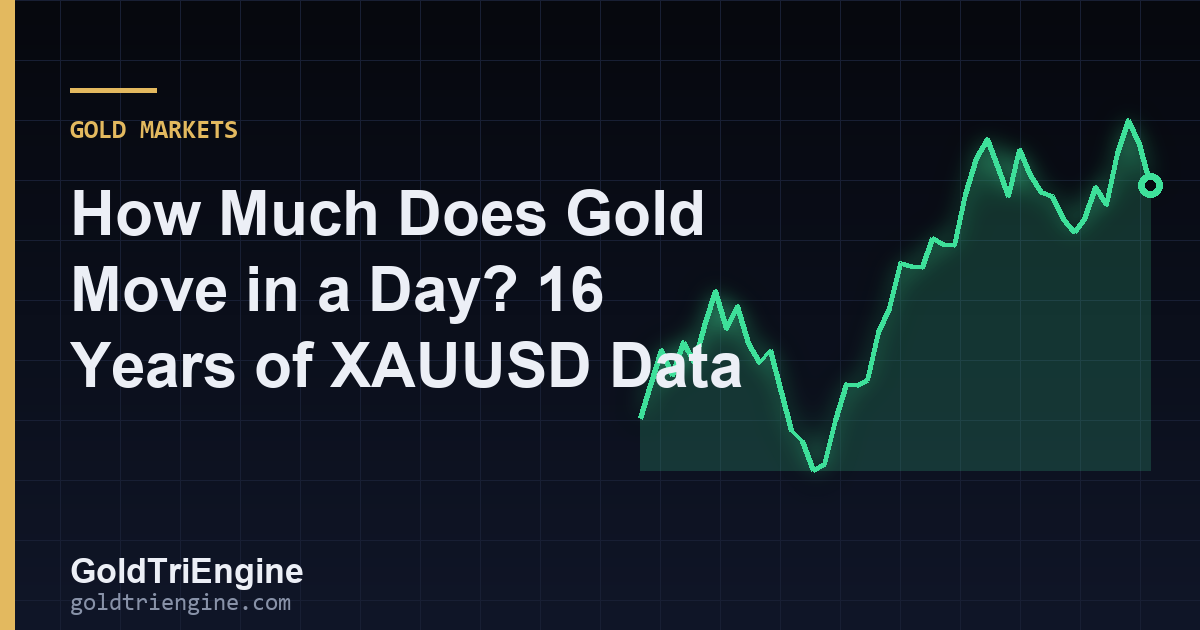
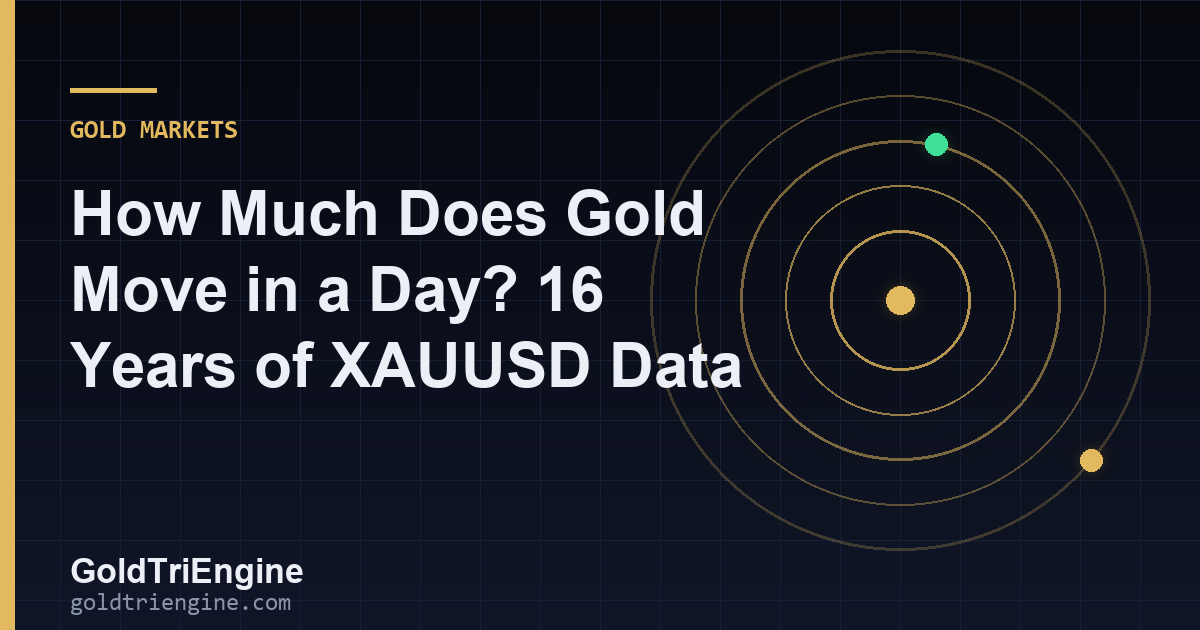
Blog: 3 posts published

diff --git a/blog/index.html b/blog/index.html
@@ -30,7 +30,7 @@
 <link rel="stylesheet" href="/style.css?v=20261021app5">
 <link rel="stylesheet" href="/wow.css?v=20261030pw11">
 <link rel="stylesheet" href="/theme.css?v=20261021app5">
-<link rel="stylesheet" href="/blog.css?v=20261031bl1">
+<link rel="stylesheet" href="/blog.css?v=20261031bl2">
 <script src="/theme.js?v=20261021app5"></script>
 <link rel="manifest" href="/manifest.webmanifest">
 <link rel="apple-touch-icon" href="/icon-180.png">
@@ -57,7 +57,7 @@
   </div>
 </header>
 <main id="main">
-<div class="bl-wrap"><header class="bl-head"><nav class="bl-crumbs" aria-label="Breadcrumb"><a href="/">Home</a> <span>/</span> <span>Blog</span></nav><span class="bl-chip"><i></i>Blog &amp; Academy</span><h1>Gold trading, explained <em>with our own data.</em></h1><p class="bl-answer">Daily gold outlooks with honest odds, lessons on news, risk, psychology and AI trading, and real results from a live account. Every number is computed by our own software.</p><div class="bl-cats"><a class="bl-chip" href="/blog/category/outlook/"><i></i>Market Outlook</a><a class="bl-chip" href="/blog/category/gold-markets/"><i></i>Gold Markets</a></div></header><a class="bl-feature" href="/blog/outlook-scorecard/"><div class="tx"><span class="bl-chip gold"><i></i>Latest · Market Outlook</span><h2>Gold Outlook Scorecard: Every Forecast, Scored in Public</h2><p>Every gold forecast we make, saved before the day and scored after it, with the back-test, calibration charts and the misses included.</p><div class="bl-meta"><span>2 min read</span></div></div><div class="vis"></div></a><div class="bl-cards"><a class="bl-card" href="/blog/how-our-gold-outlook-works/"><span class="bl-chip"><i></i>Market Outlook</span><h3>How Our Gold Outlook Works: The Method, the Maths and Its Limits</h3><p>How we turn 16 years of gold prices into daily odds, ranges and level probabilities, what we test, what the back-test found and what the method cannot do.</p><div class="bl-meta"><span>30 Oct 2026</span><span>3 min read</span></div></a><a class="bl-card" href="/blog/how-much-does-gold-move-in-a-day/"><span class="bl-chip"><i></i>Gold Markets</span><h3>How Much Does Gold Move in a Day? 16 Years of XAUUSD Data</h3><p>A typical gold day moves about half a percent, but one day in four moves over 1%. See 16 years of daily XAUUSD volatility, the biggest days and what it means for your stop loss.</p><div class="bl-meta"><span>30 Oct 2026</span><span>4 min read</span></div></a></div></div>
+<div class="bl-wrap"><header class="bl-head"><nav class="bl-crumbs" aria-label="Breadcrumb"><a href="/">Home</a> <span>/</span> <span>Blog</span></nav><span class="bl-chip"><i></i>Blog &amp; Academy</span><h1>Gold trading, explained <em>with our own data.</em></h1><p class="bl-answer">Daily gold outlooks with honest odds, lessons on news, risk, psychology and AI trading, and real results from a live account. Every number is computed by our own software.</p><div class="bl-cats"><a class="bl-chip" href="/blog/category/outlook/"><i></i>Market Outlook</a><a class="bl-chip" href="/blog/category/gold-markets/"><i></i>Gold Markets</a></div></header><a class="bl-feature" href="/blog/outlook-scorecard/"><div class="tx"><span class="bl-chip gold"><i></i>Latest · Market Outlook</span><h2>Gold Outlook Scorecard: Every Forecast, Scored in Public</h2><p>Every gold forecast we make, saved before the day and scored after it, with the back-test, calibration charts and the misses included.</p><div class="bl-meta"><span>2 min read</span></div></div><div class="vis"><svg viewBox="0 0 300 160" class="bl-svg bl-sp" aria-hidden="true"><circle cx="150" cy="80" r="70" class="bl-ring" style="--i:0"/><circle cx="150" cy="80" r="55" class="bl-ring" style="--i:1"/><circle cx="150" cy="80" r="40" class="bl-ring" style="--i:2"/><circle cx="150" cy="80" r="25" class="bl-ring" style="--i:3"/><circle cx="150" cy="80" r="5" class="bl-spd"/></svg></div></a><div class="bl-cards"><a class="bl-card" href="/blog/how-our-gold-outlook-works/"><span class="bl-chip"><i></i>Market Outlook</span><h3>How Our Gold Outlook Works: The Method, the Maths and Its Limits</h3><p>How we turn 16 years of gold prices into daily odds, ranges and level probabilities, what we test, what the back-test found and what the method cannot do.</p><div class="bl-meta"><span>30 Oct 2026</span><span>3 min read</span></div></a><a class="bl-card" href="/blog/how-much-does-gold-move-in-a-day/"><span class="bl-chip"><i></i>Gold Markets</span><h3>How Much Does Gold Move in a Day? 16 Years of XAUUSD Data</h3><p>A typical gold day moves about half a percent, but one day in four moves over 1%. See 16 years of daily XAUUSD volatility, the biggest days and what it means for your stop loss.</p><div class="bl-meta"><span>30 Oct 2026</span><span>4 min read</span></div></a></div></div>
 </main>
 <footer>
   <div class="wrap">
@@ -78,6 +78,6 @@
 <script src="/site.js?v=20261021app5" defer></script><script src="/pwnav.js?v=20261030pw6" defer></script>
 <script src="/wow.js?v=20261021app5" defer></script>
 <script src="/chat.js?v=20261021app5" defer></script>
-<script src="/blog.js?v=20261031bl1" defer></script>
+<script src="/blog.js?v=20261031bl2" defer></script>
 </body>
 </html>

diff --git a/blog.css b/blog.css
@@ -132,3 +132,14 @@ a.bl-chip:hover{border-color:var(--mint)}
 @media(max-width:940px){.bl-grid{grid-template-columns:minmax(0,1fr)}.bl-aside{position:static;order:-1}.bl-toc{display:none}.bl-feature{grid-template-columns:1fr}}
 @media(max-width:560px){.bl-wrap{padding:0 16px}.bl-kn>div{padding:14px 14px}.bl-fig{padding:16px 12px 12px;margin-left:-4px;margin-right:-4px}.bl-body p,.bl-body li{font-size:1.02rem}.bl-yt,.bl-xt,.bl-lt,.bl-cl{font-size:12px}.bl-bv{font-size:12px}}
 @media(prefers-reduced-motion:reduce){.bl-kn::after,.bl-ping{animation:none}.bl-js .bl-line,.bl-js .bl-path{stroke-dashoffset:0;stroke-dasharray:none}.bl-js .bl-area,.bl-js .bl-cone,.bl-js .bl-med,.bl-js .bl-bv,.bl-js .bl-end,.bl-js .bl-dot{opacity:1}.bl-js .bl-bar{transform:none}.bl-card,.bl-fig::before{transition:none}}
+
+/* featured-card graphics (real data curve, or abstract rings for lessons) */
+.bl-sp{max-width:420px}
+.bl-spl{fill:none;stroke:var(--gold);stroke-width:3;stroke-linecap:round;stroke-linejoin:round;stroke-dasharray:1;stroke-dashoffset:1;animation:bl-draw 2.2s cubic-bezier(.2,.7,.2,1) .2s forwards}
+.bl-sp.pos .bl-spl{stroke:var(--mint)}.bl-sp.neg .bl-spl{stroke:var(--red)}
+.bl-spa{fill:color-mix(in srgb,var(--gold) 18%,transparent);opacity:0;animation:bl-fade 1.2s ease 1.2s forwards}
+.bl-sp.pos .bl-spa{fill:color-mix(in srgb,var(--mint) 18%,transparent)}.bl-sp.neg .bl-spa{fill:color-mix(in srgb,var(--red) 18%,transparent)}
+.bl-spd{fill:var(--gold)}.bl-sp.pos .bl-spd{fill:var(--mint)}.bl-sp.neg .bl-spd{fill:var(--red)}
+.bl-ring{fill:none;stroke:var(--gold);stroke-width:1.6;opacity:0;animation:bl-fade .9s ease calc(var(--i)*.18s) forwards}
+@keyframes bl-draw{to{stroke-dashoffset:0}}@keyframes bl-fade{to{opacity:.8}}
+@media(prefers-reduced-motion:reduce){.bl-spl{animation:none;stroke-dashoffset:0}.bl-spa,.bl-ring{animation:none;opacity:.8}}

diff --git a/admin/index.html b/admin/index.html
@@ -848,7 +848,7 @@ async function vBlog() {
     ${chk('story_on', 'Daily "on this day" story', 'Fills the third daily slot when no lesson is due: gold on this calendar date, with the honest test.')}
     ${chk('lessons_on', 'Academy lessons', 'The hand-written lessons that go out one a day on their dates. Off = new ones are held back.')}
     <hr style="border:0;border-top:1px solid #8b95a340;margin:14px 0">
-    ${chk('llm_on', 'Use the local AI for the short desk note', 'Off = every note is the plain written version. The AI never writes numbers; its note is dropped if it fails any check.')}
+    ${chk('llm_on', 'Use the local AI for the short desk note (experimental)', 'OFF is recommended. In our test on 30 Oct 2026 the small local model passed every automatic check but still wrote a sentence with the wrong numbers attached, which no check can fully catch. Off = every note is a carefully written, accurate version that rotates its wording. Turn this on only together with "Require my approval".')}
     ${chk('approval_required', 'Require my approval before publishing', 'On = new posts wait in the list below until you press Approve. Recommended for the first weeks if you want to read them.')}
     <label>Most posts per day</label><select id="bmax" style="width:140px">${[1, 2, 3, 4, 5, 6].map(n => `<option ${String(n) === (S.max_per_day || '3') ? 'selected' : ''}>${n}</option>`).join('')}</select>
     <label>Notes to yourself</label><input id="bnotes" value="${esc(S.notes || '')}" style="width:100%" maxlength="300"> <button class="b" id="bnsave" style="margin-top:8px">Save note</button></div>

diff --git a/blog/category/gold-markets/index.html b/blog/category/gold-markets/index.html
@@ -30,7 +30,7 @@
 <link rel="stylesheet" href="/style.css?v=20261021app5">
 <link rel="stylesheet" href="/wow.css?v=20261030pw11">
 <link rel="stylesheet" href="/theme.css?v=20261021app5">
-<link rel="stylesheet" href="/blog.css?v=20261031bl1">
+<link rel="stylesheet" href="/blog.css?v=20261031bl2">
 <script src="/theme.js?v=20261021app5"></script>
 <link rel="manifest" href="/manifest.webmanifest">
 <link rel="apple-touch-icon" href="/icon-180.png">
@@ -77,6 +77,6 @@
 <script src="/site.js?v=20261021app5" defer></script><script src="/pwnav.js?v=20261030pw6" defer></script>
 <script src="/wow.js?v=20261021app5" defer></script>
 <script src="/chat.js?v=20261021app5" defer></script>
-<script src="/blog.js?v=20261031bl1" defer></script>
+<script src="/blog.js?v=20261031bl2" defer></script>
 </body>
 </html>

diff --git a/blog/category/outlook/index.html b/blog/category/outlook/index.html
@@ -30,7 +30,7 @@
 <link rel="stylesheet" href="/style.css?v=20261021app5">
 <link rel="stylesheet" href="/wow.css?v=20261030pw11">
 <link rel="stylesheet" href="/theme.css?v=20261021app5">
-<link rel="stylesheet" href="/blog.css?v=20261031bl1">
+<link rel="stylesheet" href="/blog.css?v=20261031bl2">
 <script src="/theme.js?v=20261021app5"></script>
 <link rel="manifest" href="/manifest.webmanifest">
 <link rel="apple-touch-icon" href="/icon-180.png">
@@ -77,6 +77,6 @@
 <script src="/site.js?v=20261021app5" defer></script><script src="/pwnav.js?v=20261030pw6" defer></script>
 <script src="/wow.js?v=20261021app5" defer></script>
 <script src="/chat.js?v=20261021app5" defer></script>
-<script src="/blog.js?v=20261031bl1" defer></script>
+<script src="/blog.js?v=20261031bl2" defer></script>
 </body>
 </html>

diff --git a/blog/how-much-does-gold-move-in-a-day/index.html b/blog/how-much-does-gold-move-in-a-day/index.html
@@ -30,7 +30,7 @@
 <link rel="stylesheet" href="/style.css?v=20261021app5">
 <link rel="stylesheet" href="/wow.css?v=20261030pw11">
 <link rel="stylesheet" href="/theme.css?v=20261021app5">
-<link rel="stylesheet" href="/blog.css?v=20261031bl1">
+<link rel="stylesheet" href="/blog.css?v=20261031bl2">
 <script src="/theme.js?v=20261021app5"></script>
 <link rel="manifest" href="/manifest.webmanifest">
 <link rel="apple-touch-icon" href="/icon-180.png">
@@ -97,6 +97,6 @@
 <script src="/site.js?v=20261021app5" defer></script><script src="/pwnav.js?v=20261030pw6" defer></script>
 <script src="/wow.js?v=20261021app5" defer></script>
 <script src="/chat.js?v=20261021app5" defer></script>
-<script src="/blog.js?v=20261031bl1" defer></script>
+<script src="/blog.js?v=20261031bl2" defer></script>
 </body>
 </html>

diff --git a/blog/how-our-gold-outlook-works/index.html b/blog/how-our-gold-outlook-works/index.html
@@ -30,7 +30,7 @@
 <link rel="stylesheet" href="/style.css?v=20261021app5">
 <link rel="stylesheet" href="/wow.css?v=20261030pw11">
 <link rel="stylesheet" href="/theme.css?v=20261021app5">
-<link rel="stylesheet" href="/blog.css?v=20261031bl1">
+<link rel="stylesheet" href="/blog.css?v=20261031bl2">
 <script src="/theme.js?v=20261021app5"></script>
 <link rel="manifest" href="/manifest.webmanifest">
 <link rel="apple-touch-icon" href="/icon-180.png">
@@ -92,6 +92,6 @@
 <script src="/site.js?v=20261021app5" defer></script><script src="/pwnav.js?v=20261030pw6" defer></script>
 <script src="/wow.js?v=20261021app5" defer></script>
 <script src="/chat.js?v=20261021app5" defer></script>
-<script src="/blog.js?v=20261031bl1" defer></script>
+<script src="/blog.js?v=20261031bl2" defer></script>
 </body>
 </html>

diff --git a/blog/outlook-scorecard/index.html b/blog/outlook-scorecard/index.html
@@ -30,7 +30,7 @@
 <link rel="stylesheet" href="/style.css?v=20261021app5">
 <link rel="stylesheet" href="/wow.css?v=20261030pw11">
 <link rel="stylesheet" href="/theme.css?v=20261021app5">
-<link rel="stylesheet" href="/blog.css?v=20261031bl1">
+<link rel="stylesheet" href="/blog.css?v=20261031bl2">
 <script src="/theme.js?v=20261021app5"></script>
 <link rel="manifest" href="/manifest.webmanifest">
 <link rel="apple-touch-icon" href="/icon-180.png">
@@ -89,6 +89,6 @@
 <script src="/site.js?v=20261021app5" defer></script><script src="/pwnav.js?v=20261030pw6" defer></script>
 <script src="/wow.js?v=20261021app5" defer></script>
 <script src="/chat.js?v=20261021app5" defer></script>
-<script src="/blog.js?v=20261031bl1" defer></script>
+<script src="/blog.js?v=20261031bl2" defer></script>
 </body>
 </html>
